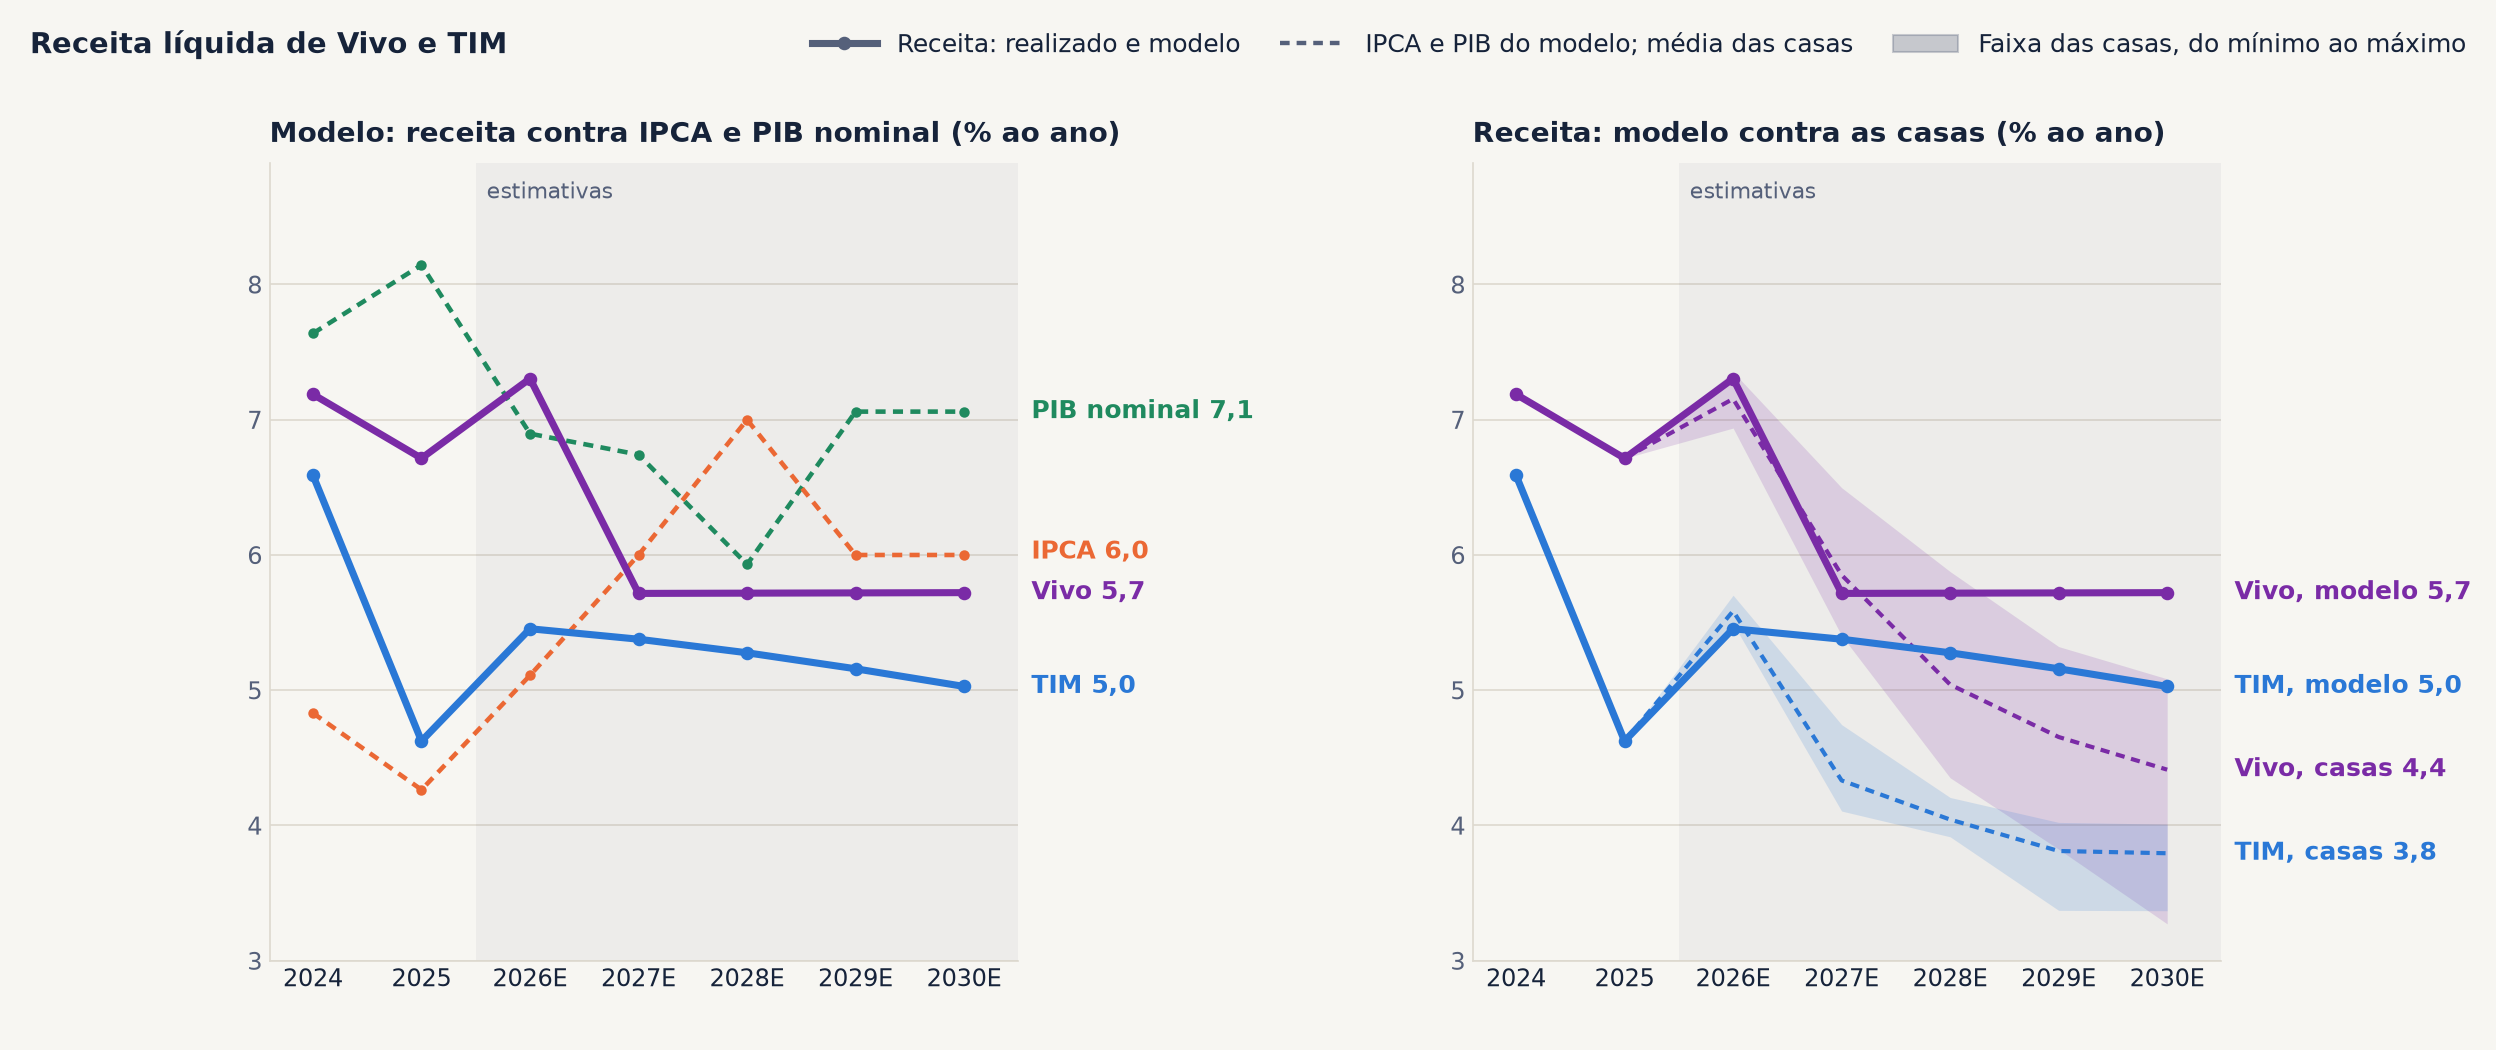
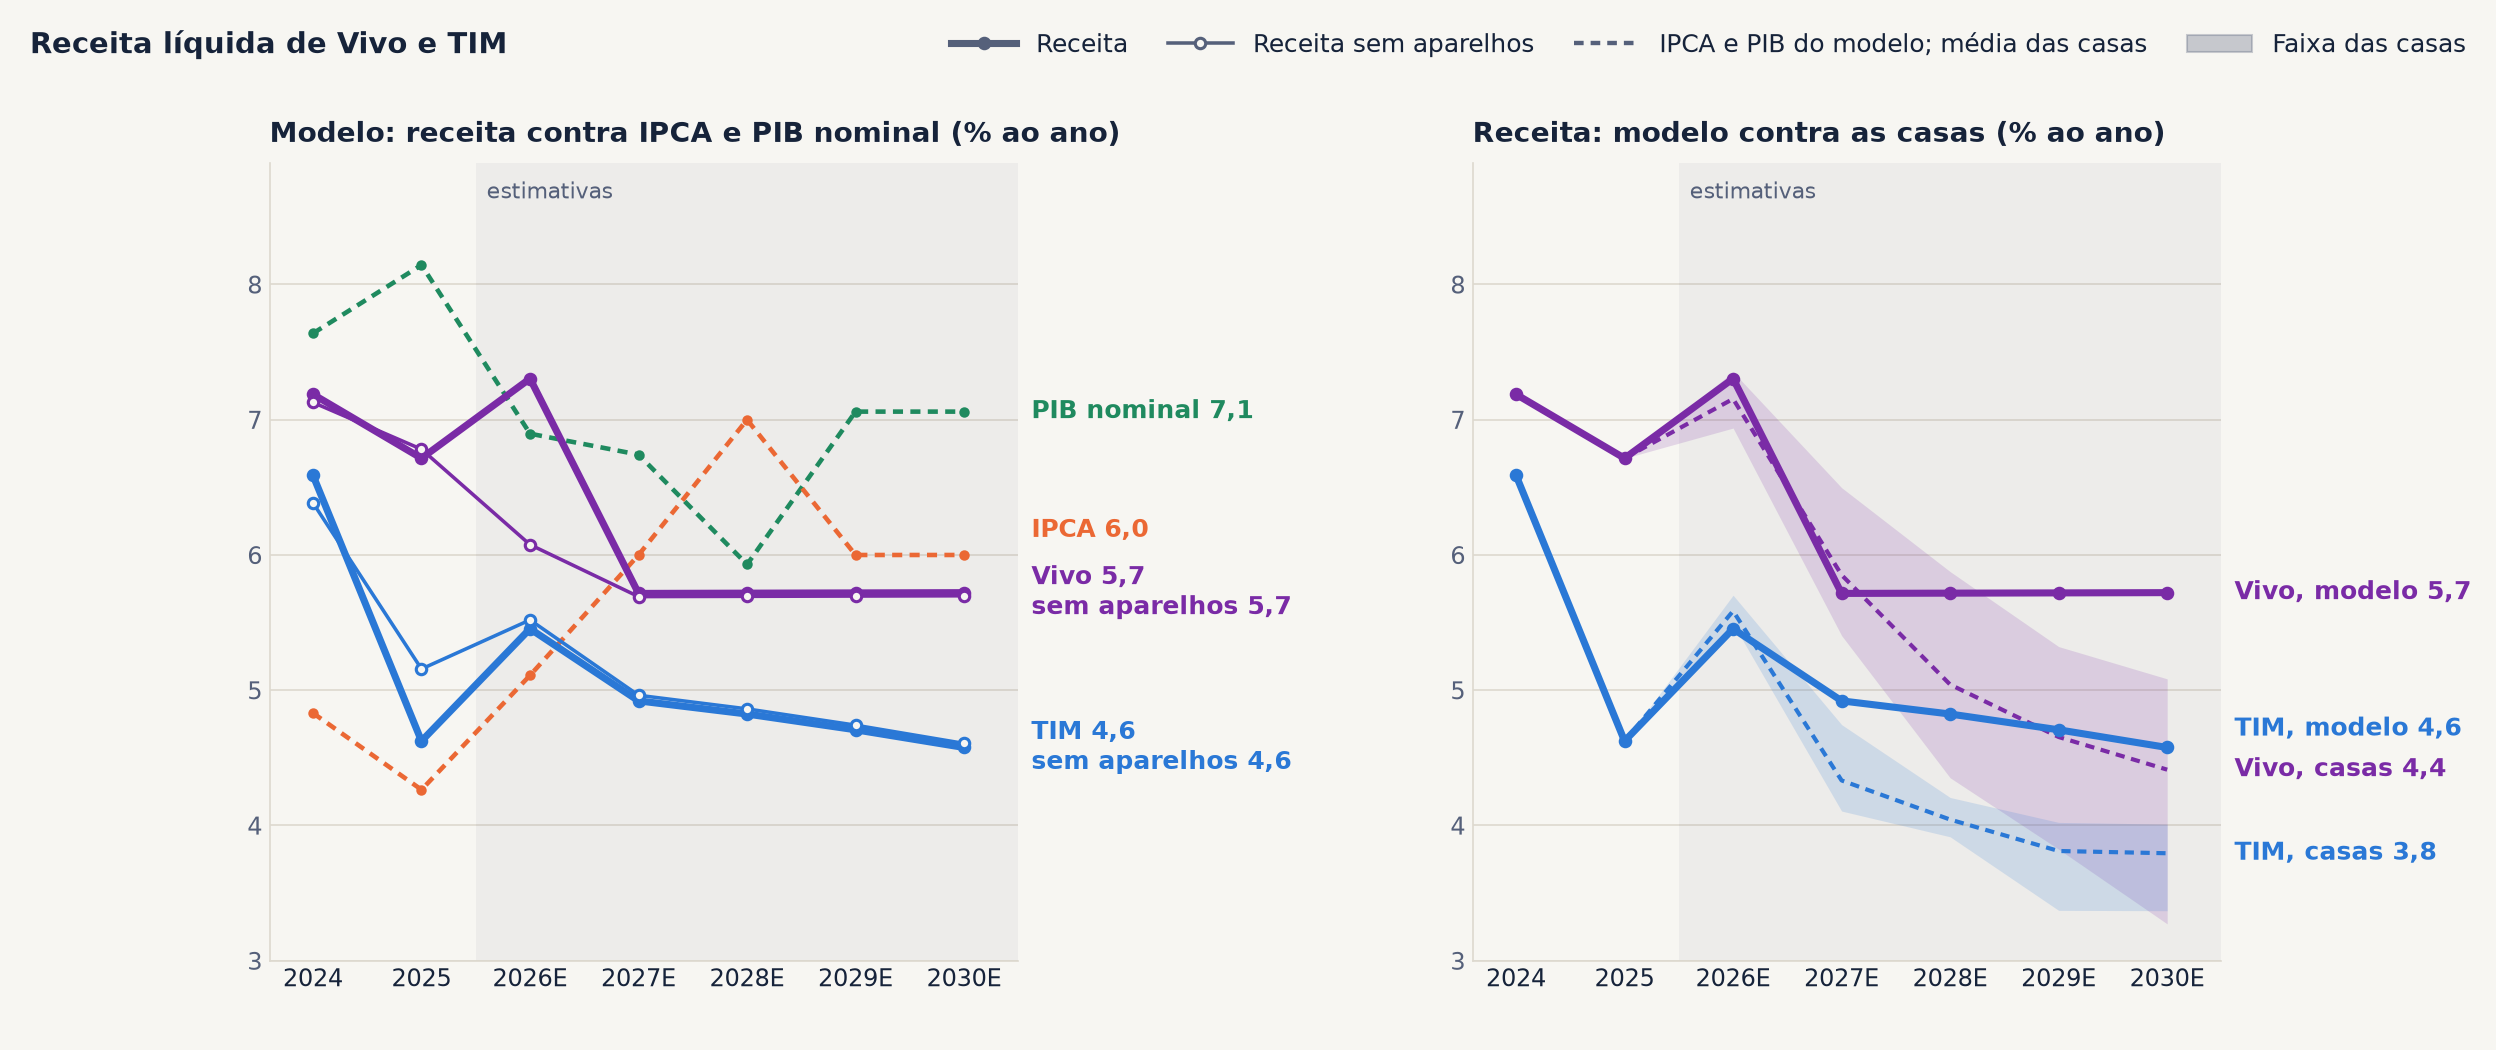
v3.9 · 24/11/2026 20:39 · slide 5 com o modelo das 20:36 e a receita sem aparelhos
TIM com receita móvel a 4,5% ao ano; linha de crescimento da receita
sem aparelhos para Vivo e TIM.

diff --git a/index.html b/index.html
@@ -40,7 +40,7 @@ h1, h2, h3 { font-family:'Space Grotesk', Arial, sans-serif; }
 <div id="palco">
 <section id="capa" class="capa" data-transition="fade">
 <div>
-<p class="chip">v3.8 · 24/11/2026 20:33</p>
+<p class="chip">v3.9 · 24/11/2026 20:39</p>
 </div>
 <div>
 <h1>Telecom Brasil: Vivo e TIM</h1>
@@ -72,9 +72,9 @@ h1, h2, h3 { font-family:'Space Grotesk', Arial, sans-serif; }
 <section id="rol" data-transition="fade">
 <p class="olho">1 · RECEITA: CONTRA A INFLAÇÃO E O PIB, E CONTRA AS CASAS</p>
 <h2 class="titulo">A receita do modelo cresce menos que a inflação e o PIB nominal de 2027E em diante e, ainda assim, fica até 1,3 ponto acima das casas</h2>
-<img class="graf" src="img/v5_receita_macro.png" alt="Dois gráficos de 2024 a 2030. À esquerda, o crescimento ao ano da receita líquida de Vivo e de TIM no modelo contra o IPCA e o PIB nominal do modelo. À direita, a receita de Vivo e de TIM no modelo contra a média das casas, com a faixa do mínimo ao máximo">
+<img class="graf" src="img/v5_receita_macro.png" alt="Dois gráficos de 2024 a 2030. À esquerda, o crescimento ao ano da receita líquida de Vivo e de TIM no modelo, com e sem aparelhos, contra o IPCA e o PIB nominal do modelo. À direita, a receita de Vivo e de TIM no modelo contra a média das casas, com a faixa do mínimo ao máximo">
 <p class="fonte">Fonte: RI e modelos de Vivo e TIM de 24/11/2026; Banco Central (IPCA e PIB realizados). PIB nominal do modelo = PIB real de 1,7%, 0,7%, -1,0% e 1,0% daí em diante, com o IPCA do modelo. Casas: Itaú BBA, BBI, BTG, Santander e, na Vivo, UBS.</p>
-<aside>Premissas do modelo. IPCA: 5,1% em 2026E, 6,0% em 2027E, 7,0% em 2028E e 6,0% em 2029E e 2030E (DRE do modelo). PIB real: 1,7% em 2026E, 0,7% em 2027E, -1,0% em 2028E e 1,0% de 2029E em diante (premissa informada em 24/11/2026; ainda não está nas planilhas). PIB nominal resultante: 6,9%, 6,7%, 5,9%, 7,1% e 7,1%. Mercado. Focus de 19/11/2026, medianas: IPCA de 5,2%, 5,1%, 4,0%, 4,0% e 4,0%, com respostas entre 3,0% e 6,0% de 2028 em diante; PIB real de 1,7%, 1,0%, 1,7%, 2,0% e 2,0%; PIB nominal de 6,9%, 6,2%, 5,8%, 6,1% e 6,0%, calculado com o IPCA como deflator. O IPCA de 7,0% do modelo em 2028E fica acima da resposta mais alta do Focus. Receita líquida. Vivo no modelo: 7,3% em 2026E e 5,7% de 2027E a 2030E, contra a média das casas de 7,2%, 5,9%, 5,0%, 4,7% e 4,4% (faixa de 3,3% a 5,1% em 2030E). TIM no modelo, com a receita móvel a 5,0% ao ano de 2027E em diante: 5,5%, 5,4%, 5,3%, 5,2% e 5,0%, contra 5,6%, 4,3%, 4,0%, 3,8% e 3,8% nas casas (faixa de 3,4% a 4,0% em 2030E); o modelo fica 1,0 a 1,3 ponto acima da média e acima da casa mais alta de 2027E em diante. Em termos reais, com a inflação de cada um: a receita da Vivo no modelo cai 0,3% em 2027E, 1,2% em 2028E e 0,3% em 2029E e 2030E, e nas casas cresce 0,7%, 1,0%, 0,6% e 0,4%; a da TIM no modelo cai 0,6%, 1,6%, 0,8% e 0,9%, e nas casas fica entre -0,7% e zero. Contra o PIB nominal, a receita cresce menos nos dois: Vivo 1,3 ponto abaixo em 2030E no modelo e 1,6 no mercado; TIM 2,0 e 2,2 pontos abaixo. Realizado: IPCA de dezembro contra dezembro e PIB nominal em 12 meses (séries 433 e 4382 do Banco Central); o slide 2 usa o IPCA pela média do ano. O pico da receita em 2022 e 2023 inclui os clientes da Oi e o corte do ICMS.</aside>
+<aside>Premissas do modelo. IPCA: 5,1% em 2026E, 6,0% em 2027E, 7,0% em 2028E e 6,0% em 2029E e 2030E (DRE do modelo). PIB real: 1,7% em 2026E, 0,7% em 2027E, -1,0% em 2028E e 1,0% de 2029E em diante (premissa informada em 24/11/2026; ainda não está nas planilhas). PIB nominal resultante: 6,9%, 6,7%, 5,9%, 7,1% e 7,1%. Mercado. Focus de 19/11/2026, medianas: IPCA de 5,2%, 5,1%, 4,0%, 4,0% e 4,0%, com respostas entre 3,0% e 6,0% de 2028 em diante; PIB real de 1,7%, 1,0%, 1,7%, 2,0% e 2,0%; PIB nominal de 6,9%, 6,2%, 5,8%, 6,1% e 6,0%, calculado com o IPCA como deflator. O IPCA de 7,0% do modelo em 2028E fica acima da resposta mais alta do Focus. Receita líquida. Vivo no modelo: 7,3% em 2026E e 5,7% de 2027E a 2030E, contra a média das casas de 7,2%, 5,9%, 5,0%, 4,7% e 4,4% (faixa de 3,3% a 5,1% em 2030E). TIM no modelo, com a receita móvel a 4,5% ao ano de 2027E em diante: 5,5%, 4,9%, 4,8%, 4,7% e 4,6%, contra 5,6%, 4,3%, 4,0%, 3,8% e 3,8% nas casas (faixa de 3,4% a 4,0% em 2030E); o modelo fica 0,6 a 0,9 ponto acima da média e acima da casa mais alta de 2027E em diante. Receita sem aparelhos (receita líquida menos receita de aparelhos, calculada fora dos modelos; confere com a linha de receita de serviços): Vivo 7,1% em 2024, 6,8% em 2025, 6,1% em 2026E e 5,7% de 2027E em diante, contra 7,3% da receita total em 2026E, quando os aparelhos crescem 24,6%; TIM 6,4%, 5,2%, 5,5%, 5,0%, 4,9%, 4,7% e 4,6%, com a diferença maior em 2025, quando os aparelhos caem 10,6%. Em termos reais, com a inflação de cada um: a receita da Vivo no modelo cai 0,3% em 2027E, 1,2% em 2028E e 0,3% em 2029E e 2030E, e nas casas cresce 0,7%, 1,0%, 0,6% e 0,4%; a da TIM no modelo cai 1,0%, 2,0%, 1,2% e 1,3%, e nas casas fica entre -0,7% e zero. Contra o PIB nominal, a receita cresce menos nos dois: Vivo 1,3 ponto abaixo em 2030E no modelo e 1,6 no mercado; TIM 2,5 e 2,2 pontos abaixo. Realizado: IPCA de dezembro contra dezembro e PIB nominal em 12 meses (séries 433 e 4382 do Banco Central); o slide 2 usa o IPCA pela média do ano. O pico da receita em 2022 e 2023 inclui os clientes da Oi e o corte do ICMS.</aside>
 </section>
 <section id="margem" data-transition="fade">
 <p class="olho">2 · MARGEM EBITDA HOJE</p>

diff --git a/README.md b/README.md
@@ -1,3 +1,3 @@
 # Telecom Brasil: Vivo e TIM
 
-Deck de telecom (v3.8 · 24/11/2026 20:33): o setor contra a inflação e o PIB, receita, margem, EBITDA, capex e arrendamento, lucro, payout, Fistel e valuation de Vivo e TIM.
+Deck de telecom (v3.9 · 24/11/2026 20:39): o setor contra a inflação e o PIB, receita, margem, EBITDA, capex e arrendamento, lucro, payout, Fistel e valuation de Vivo e TIM.
